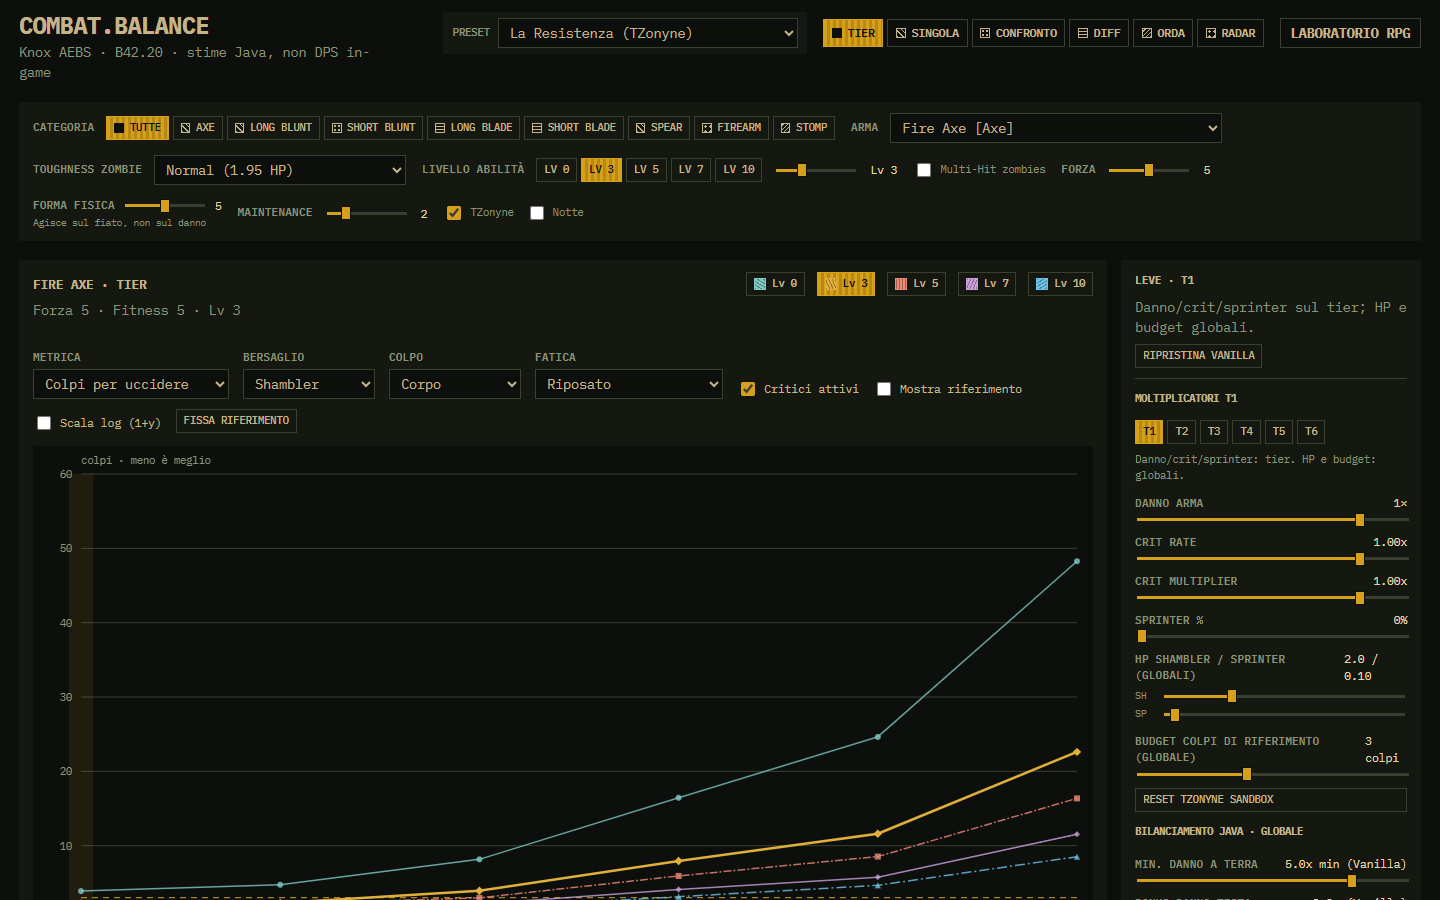
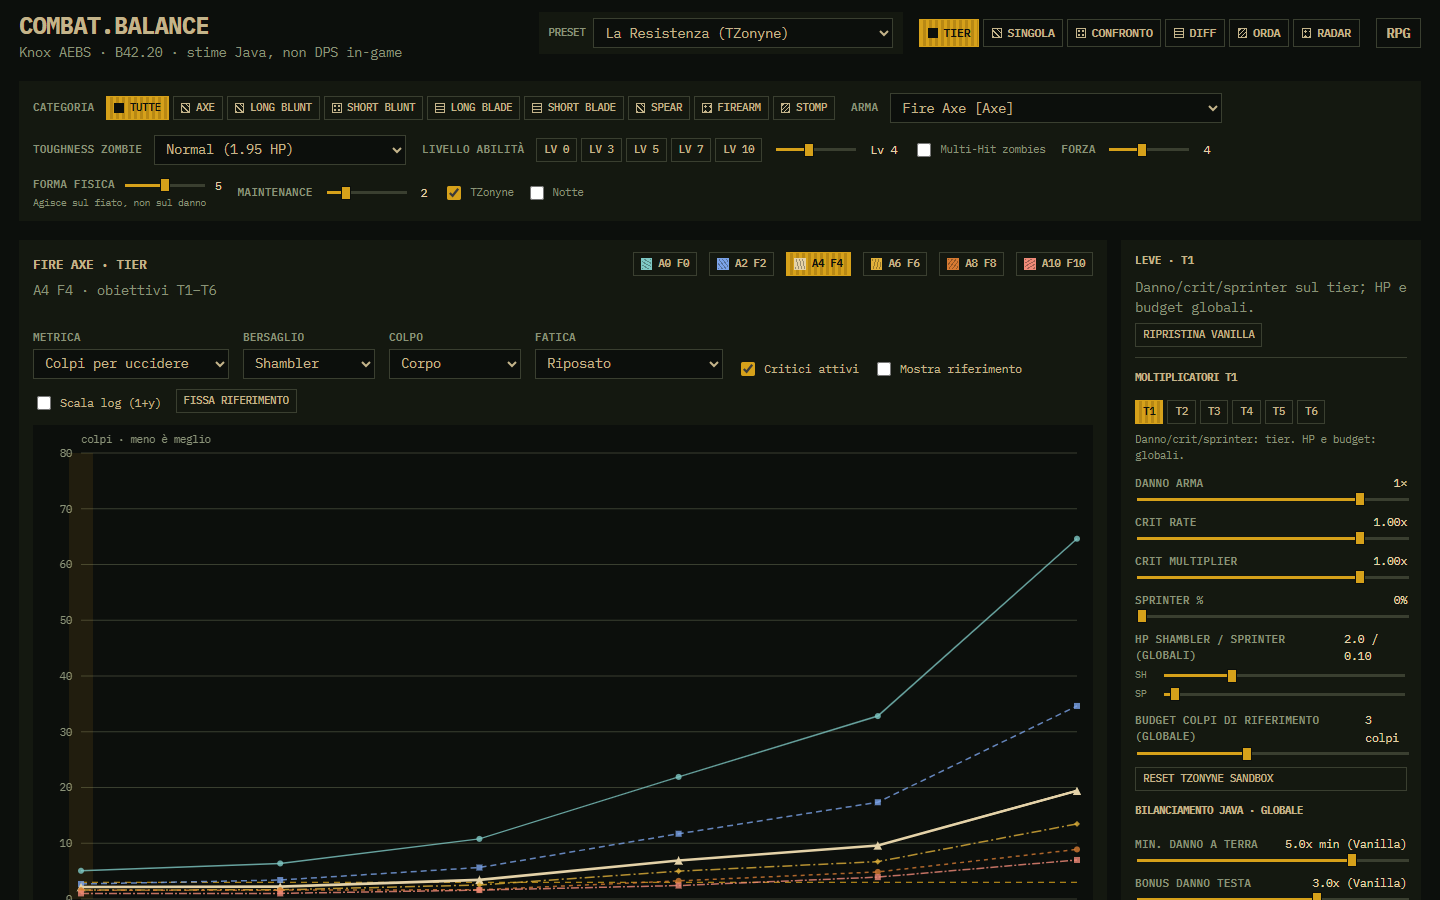
Plot zone traces as tier builds, not skill-only.
Each header chip is an RPG goal (weapon skill + strength). The ribbon Forza slider still overrides independently and adds a custom A+F series when it does not match a goal.

diff --git a/app.js b/app.js
@@ -53,7 +53,6 @@ document.addEventListener("DOMContentLoaded", () => {
     zoneFatigue: 0,
     zoneCompare: false,
     zoneLog: false,
-    zoneLevels: new Set([0, 3, 5, 7, 10]),
     hordeSize: 15,
     hordeTactic: "standing", // "standing" | "shove_stomp" | "headshot"
     sandbox: {
@@ -477,7 +476,7 @@ document.addEventListener("DOMContentLoaded", () => {
       renderHeatmap(weapon);
       const cur = zonePoint(state.selectedSkillLevel, currentTier());
       el.stageTitle.textContent = `${weapon.name} · tier`;
-      el.stageSubtitle.textContent = `Forza ${state.character.strength} · Fitness ${state.character.fitnessLevel} · Lv ${state.selectedSkillLevel}`;
+      el.stageSubtitle.textContent = `A${state.selectedSkillLevel} F${state.character.strength} · obiettivi T1–T6`;
       el.panelTableTitle.textContent = "Livelli × tier";
       el.panelTableSub.textContent = "Clicca una cella";
       el.panelRightTitle.textContent = `Leve · T${currentTier().id}`;
@@ -1411,12 +1410,32 @@ document.addEventListener("DOMContentLoaded", () => {
     return Number.isFinite(value) ? value.toLocaleString("it-IT", { maximumFractionDigits: 2 }) : "∞";
   }
 
-  function zonePoint(skill, tier, baseline = false) {
+  function zoneBuilds() {
+    const builds = rpg.goals.map((goal, index) => ({
+      skill: goal.skill,
+      strength: goal.strength,
+      label: `A${goal.skill} F${goal.strength}`,
+      title: `Ingresso T${index + 1}: abilità ${goal.skill}, forza ${goal.strength}`
+    }));
+    const matched = builds.some(b => b.skill === state.selectedSkillLevel && b.strength === state.character.strength);
+    if (!matched) {
+      builds.push({
+        skill: state.selectedSkillLevel,
+        strength: state.character.strength,
+        label: `A${state.selectedSkillLevel} F${state.character.strength}`,
+        title: "Build dei selettori, non un obiettivo di tier",
+        custom: true
+      });
+    }
+    return builds;
+  }
+
+  function zonePoint(skill, tier, baseline = false, strength = state.character.strength) {
     const source = baseline ? zoneBaseline : state;
     const tz = { ...source.tzonyne, selectedTier: tier.id };
-    const key = `${skill}:${tier.id}:${baseline}`;
+    const key = `${skill}:${strength}:${tier.id}:${baseline}`;
     if (zonePoints.has(key)) return zonePoints.get(key);
-    const character = { ...state.character, skillLevel: skill, moodles: { endurance: state.zoneFatigue } };
+    const character = { ...state.character, skillLevel: skill, strength, moodles: { endurance: state.zoneFatigue } };
     const weapon = CombatEngine.applyTZonyneWeapon(getActiveWeapon(), tz, character);
     const mix = CombatEngine.zoneZombieMix(tz);
     const hp = tz.enabled
@@ -1457,14 +1476,14 @@ document.addEventListener("DOMContentLoaded", () => {
     const chartW = width - pad.left - pad.right;
     const chartH = height - pad.top - pad.bottom;
     const tiers = state.tzonyne.tiers;
-    const levels = [...new Set([...state.zoneLevels, state.selectedSkillLevel])].sort((a,b) => a-b);
-    const series = levels.map(level => ({
-      level,
-      color: TRACE_INKS[level % TRACE_INKS.length],
-      dash: TRACE_DASHES[level % TRACE_DASHES.length],
-      mark: TRACE_MARKS[level % TRACE_MARKS.length],
-      points: tiers.map(t => zonePoint(level, t)),
-      baseline: state.zoneCompare ? tiers.map(t => zonePoint(level, t, true)) : []
+    const builds = zoneBuilds();
+    const series = builds.map((build, index) => ({
+      ...build,
+      color: TRACE_INKS[index % TRACE_INKS.length],
+      dash: TRACE_DASHES[index % TRACE_DASHES.length],
+      mark: TRACE_MARKS[index % TRACE_MARKS.length],
+      points: tiers.map(t => zonePoint(build.skill, t, false, build.strength)),
+      baseline: state.zoneCompare ? tiers.map(t => zonePoint(build.skill, t, true, build.strength)) : []
     }));
     const threshold = state.zoneMetric === "stamina" ? 0 : state.zoneMetric === "htk" ? state.tzonyne.survivalHtk : state.zoneMetric === "power" ? 100 : series[0].points[0].hp;
     const values = series.flatMap(s => [...s.points, ...s.baseline].map(p => p[state.zoneMetric])).filter(Number.isFinite);
@@ -1514,7 +1533,7 @@ document.addEventListener("DOMContentLoaded", () => {
       ctx.fillText(`${formatZone(share)}%`,x(i),height-17);
     });
     series.forEach(s => {
-      const selected = s.level === state.selectedSkillLevel;
+      const selected = s.skill === state.selectedSkillLevel && s.strength === state.character.strength;
       const draw = (points, reference) => {
         ctx.save(); ctx.strokeStyle = s.color; ctx.fillStyle = s.color;
         ctx.lineWidth = selected ? 2.6 : 1.5;
@@ -1532,15 +1551,17 @@ document.addEventListener("DOMContentLoaded", () => {
       if (s.baseline.length) draw(s.baseline,true);
       draw(s.points,false);
     });
-    el.stageLegend.innerHTML = series.map(s => `<button type="button" class="zone-trace" data-zone-level="${s.level}" aria-pressed="${s.level === state.selectedSkillLevel}" style="--trace-color:${s.color}; --trace-angle:${30 + s.level * 12}deg">Lv ${s.level}</button>`).join("");
-    el.stageLegend.querySelectorAll("[data-zone-level]").forEach(button => button.onclick = () => {
-      state.selectedSkillLevel = Number(button.dataset.zoneLevel); update();
+    el.stageLegend.innerHTML = series.map(s => `<button type="button" class="zone-trace" data-zone-skill="${s.skill}" data-zone-strength="${s.strength}" aria-pressed="${s.skill === state.selectedSkillLevel && s.strength === state.character.strength}" title="${s.title}" style="--trace-color:${s.color}; --trace-angle:${30 + (s.custom ? 90 : s.skill * 12)}deg">${s.label}</button>`).join("");
+    el.stageLegend.querySelectorAll(".zone-trace").forEach(button => button.onclick = () => {
+      state.selectedSkillLevel = Number(button.dataset.zoneSkill);
+      state.character.strength = Number(button.dataset.zoneStrength);
+      update();
     });
     const current = zonePoint(state.selectedSkillLevel, currentTier());
     const before = zonePoint(state.selectedSkillLevel, currentTier(), true);
     const delta = current[state.zoneMetric] - before[state.zoneMetric];
     document.getElementById("zoneSelection").textContent =
-      `T${currentTier().id} · Lv ${state.selectedSkillLevel} · ${formatZone(current[state.zoneMetric])} ${zoneUnit()}` +
+      `T${currentTier().id} · A${state.selectedSkillLevel} F${state.character.strength} · ${formatZone(current[state.zoneMetric])} ${zoneUnit()}` +
       ` · Roll non critico ${formatZone(current.min)}–${formatZone(current.max)} HP · Crit ${formatZone(current.critChance)}%` +
       (state.zoneCompare ? ` · Δ riferimento ${delta > 0 ? "+" : ""}${formatZone(delta)} ${zoneUnit()}` : "");
     if (selectedIndex > 0) {
@@ -1563,7 +1584,7 @@ document.addEventListener("DOMContentLoaded", () => {
       : state.zoneMetric === "power"
         ? "100% = target colpi."
         : `Tratteggio = budget ${state.tzonyne.survivalHtk} colpi.`;
-    document.getElementById("zoneChartNote").textContent = `${note} % sotto i tier = sprinter. ${extras}`.trim();
+    document.getElementById("zoneChartNote").textContent = `${note} Tracce = obiettivi (abilità + forza). % sotto i tier = sprinter. ${extras}`.trim();
   }
 
   function renderZoneTable() {

diff --git a/DESIGN.md b/DESIGN.md
@@ -18,7 +18,7 @@ Header: `Combat.balance`. View and category cues carry label + pattern. Chart st
 
 ## Figures
 
-Traces keep dash + marker encoding. Hue is allowed to spread so overlapping skill/weapon series stay separable on the dark ground: teal, steel, paper, gold, copper, salmon, alarm, lilac, lime, amber, sky. Heatmap cells use the same inks plus hatch for fail states.
+Traces keep dash + marker encoding. Hue is allowed to spread so overlapping tier-build series (weapon skill + strength) stay separable on the dark ground: teal, steel, paper, gold, copper, salmon, alarm, lilac, lime, amber, sky. Heatmap cells use the same inks plus hatch for fail states.
 
 ## Refuse
 
